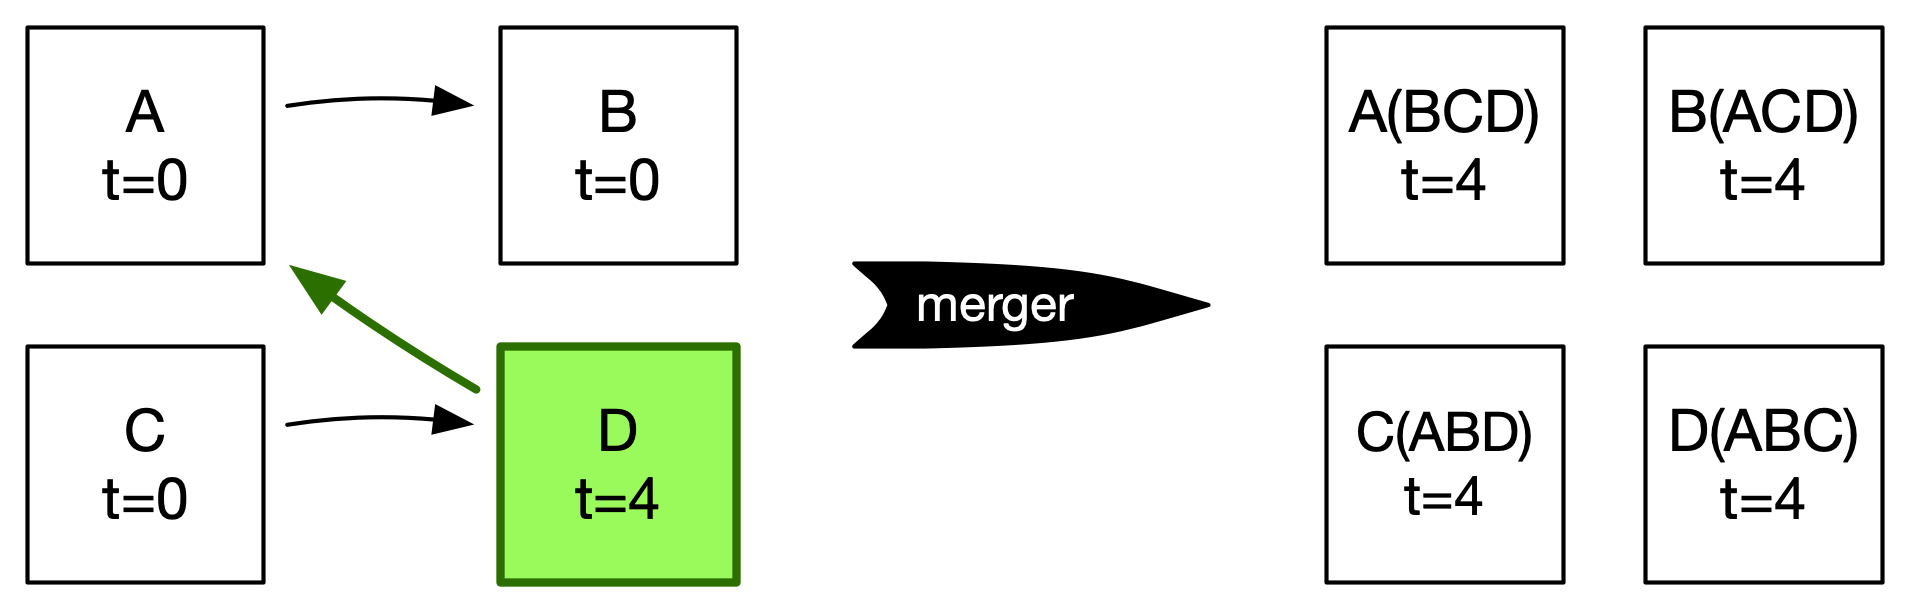
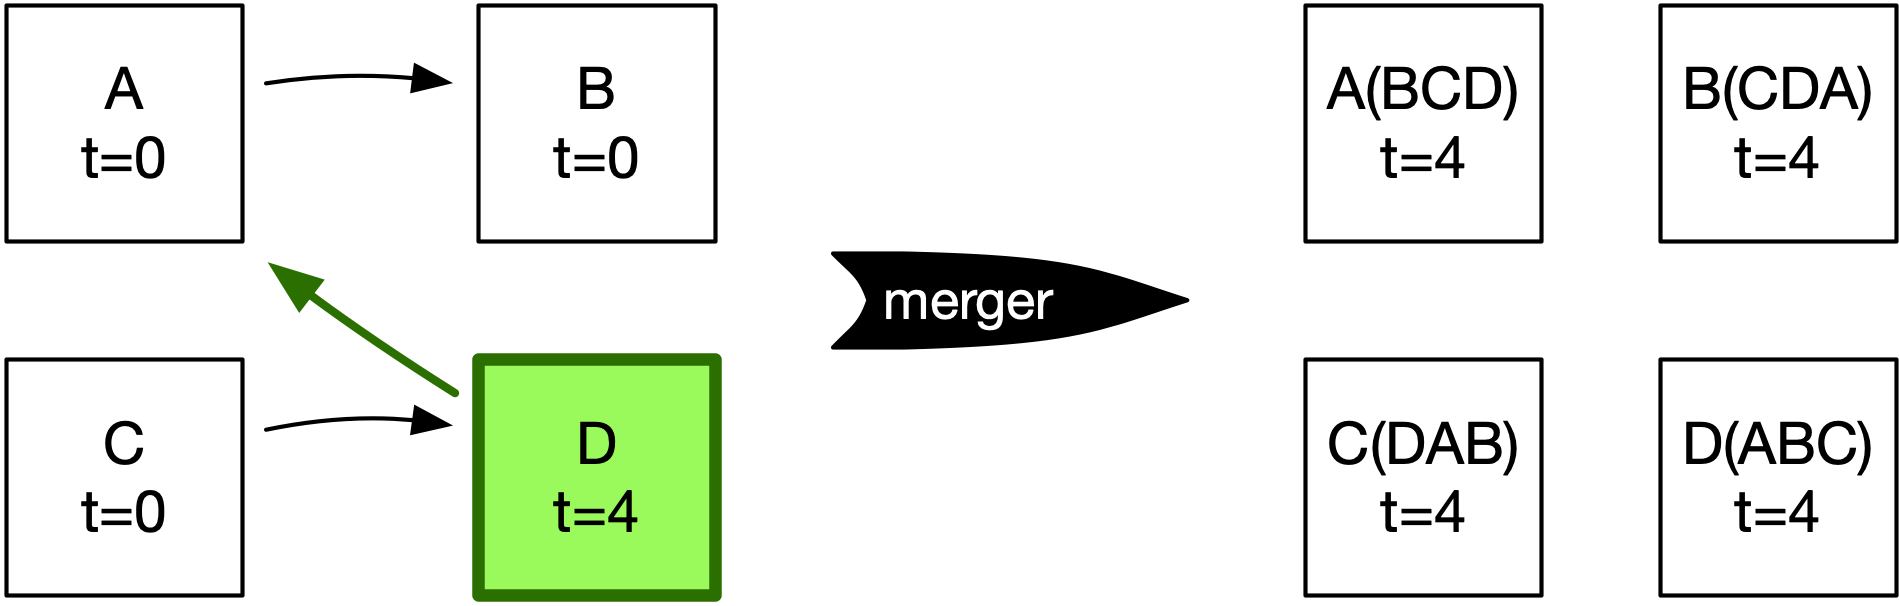
Add a worked example of the original problem with the fix

diff --git a/rfcs/038-matcher-versioning/README.md b/rfcs/038-matcher-versioning/README.md
@@ -122,3 +122,34 @@ This is based on a real example of an issue we had with merging and Sanskrit man
 
         Because *m1* &gt; *m0*, the downstream services will prefer the work with modified time *m1*, which is based on *t1*, which is what we want.
 
+Let's repeat the original example with the new behaviour:
+
+1.  Start with four works joined in two pairs AB and CD, all created and processed by the matcher at time t=0:
+
+    ![](fixed_matcher_1.png)
+
+    The merger will use the time these works were processed by the matcher to create the merged work, so it will create four works all with timestamp t=0.
+
+2.  Now suppose we realise these are paired incorrectly, and should actually be AD and BC. We update A at time t=1, B at time t=2, C at time t=3, D at time t=4. However, due to best-effort ordering, we don’t process these updates in the correct order.
+
+3.  Work D was updated at time t=4, and it gets processed by the matcher at time t=5.
+
+    ![](fixed_matcher_2.png)
+
+    The merger uses time t=5 for the works it creates.
+
+4.  Then we process A and C, which were updated at time t=1 and t=3, respectively.
+    The matcher processes these two updates at time t=6.
+
+    ![](fixed_matcher_3.png)
+
+    The merger uses time t=6 for the works it creates.
+    This is newer than the previous timestamp, so these works can replace the ones from the previous run of the merger.
+
+5.  Finally we process B, which was updated at time t=2.
+    The matcher processes this update at time t=7.
+
+    ![](fixed_matcher_4.png)
+
+    Because the merger uses time t=7 for the works, these can be indexed in pipeline storage and replace the previous versions.
+    Success!
